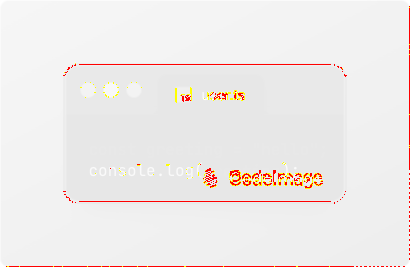
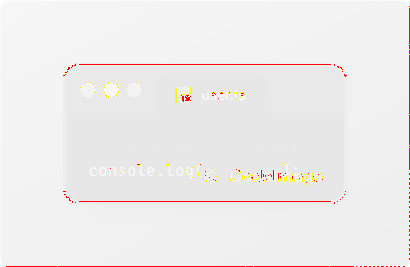
test(app): fix the Chrome reference of the Animate preview parity
The reference page had no doctype, so Chrome drew it in quirks mode and
moved the watermark 4.5 px, and it emulated the device scale. With a
doctype and a real device scale, target 1x/2x and free 2x pass 39/39;
free 1x is 35/39, four mid-transition frames where Takumi rounds the
antialiased edges of a fractionally transformed box, also on main.
The verification report records the cause and the post-merge results.

Changed region(s): [[0.5561, 0.6292, 0.7902, 0.7191], [0.4976, 0.3296, 0.6146, 0.3895], [0.4976, 0.6292, 0.5268, 0.7191]]

diff --git a/scripts/parity/animation-preview-live.ts b/scripts/parity/animation-preview-live.ts
@@ -47,10 +47,13 @@ export async function runPreviewParity(options: {
   await mkdir(options.out, {recursive: true});
   const browser = await chromium.launch({channel: 'chrome'});
   const app = await browser.newPage({viewport: {width: 1440, height: 900}});
-  const reference = await browser.newPage({
-    viewport: {width: 1440, height: 900},
-    deviceScaleFactor: scale,
+  // A real device scale: an emulated one moves edges and glyphs by
+  // sub-pixels that Takumi does not.
+  const referenceBrowser = await chromium.launch({
+    channel: 'chrome',
+    args: [`--force-device-scale-factor=${scale}`, '--window-size=2000,1200'],
   });
+  const reference = await referenceBrowser.newPage({viewport: null});
   let comparisons = 0;
   const results: {mode: string; ms: number; diff: number}[] = [];
   try {
@@ -164,12 +167,10 @@ export async function runPreviewParity(options: {
           };
         });
         const css = `${snapshot.css}\nhtml,body{margin:0!important;background:transparent!important} [data-animation-stage]{position:relative!important;zoom:1!important}`;
-        await reference.setViewportSize({
-          width: snapshot.width,
-          height: snapshot.height,
-        });
+        // Standards mode, as the app: in quirks mode a line of only the
+        // watermark's inline SVG has no strut, which moves the watermark.
         await reference.setContent(
-          `<style>${faces}${css}</style>${snapshot.html}`,
+          `<!doctype html><style>${faces}${css}</style>${snapshot.html}`,
         );
         await reference.evaluate(async time => {
           await document.fonts.ready;
@@ -231,5 +232,6 @@ export async function runPreviewParity(options: {
     );
   } finally {
     await browser.close();
+    await referenceBrowser.close();
   }
 }

diff --git a/docs/plans/animate-new-ui-verification.md b/docs/plans/animate-new-ui-verification.md
@@ -19,6 +19,38 @@ All commits carry the requested co-author trailer. Each implementation slice
 was pushed to `feat/animate-new-ui`. No other branch was pushed, no PR was
 merged, and the PR body was left unchanged.
 
+## Review after merging main
+
+`origin/main` at `532da1e81e38b187704d9885c256bc915e635960` (the unified
+editor #711/#737 and Takumi #731) was merged in as `291e6d5f`. Four files
+conflicted:
+
+| File                                        | Resolution                                                                                   |
+| ------------------------------------------- | -------------------------------------------------------------------------------------------- |
+| `apps/api/.../project.repository.ts`        | Both import lists: `parseAnimationSettings` and main's reordered `parseTabMarks`             |
+| `apps/codeimage/.../Frame/PreviewFrame.tsx` | This branch's `FrameView`/`PreviewFrame` split; main's copy-hotkey renderer moves into `PreviewFrame` |
+| `apps/codeimage/src/i18n/index.ts`          | `animationLocale` and main's `whatsNewLocale` in every locale                                |
+| `.../editor-controls/stage.tsx`             | `Stage` keeps `AnimatePanel` and `AnimateToggle` and gains main's `compact`                 |
+
+After the merge and the review fixes:
+
+| Check                                   | Result                                                                    |
+| --------------------------------------- | ------------------------------------------------------------------------- |
+| App Vitest                              | 275 passed, 42 files                                                      |
+| API unit Vitest (CI env)                | 77 passed, 15 files                                                       |
+| API update/GET against Docker Postgres  | 5 passed                                                                  |
+| `pnpm libs:build`, API `build:ts`       | Passed                                                                    |
+| `pnpm typecheck`, `pnpm lint`           | Passed; lint has warnings only, none in Animate files                     |
+| Chrome UI matrix                        | 66 passed: 11 lanes × 3 layouts × 2 sizes                                 |
+| Localization browser matrix             | 24 passed: en/it/de/es × 3 layouts × 2 sizes                              |
+| Locale keys                             | 514 keys and placeholders match in it, en, de, es                         |
+| Default timelines vs `main`             | 20 byte-identical                                                         |
+| Static export vs `main`                 | DOM and Chrome pixels identical, 5 window styles × all tabs/active tab    |
+| Chrome/Takumi preview parity            | Target 1× and 2×, free 2×: 39/39. Free 1×: 35/39, see [below](#free-size-parity) |
+
+Two lanes needed main's What's new nudge (#725) hidden: it settles over Dock's
+phone bar and took the click meant for the Animate toggle.
+
 ## Results
 
 | Check                                        | Result                                                      |
@@ -32,7 +64,7 @@ merged, and the PR body was left unchanged.
 | Chrome UI matrix                             | 66 passed: 11 lanes × 3 layouts × 2 sizes                   |
 | Localization browser matrix                  | 24 passed: en/it/de/es × 3 layouts × 2 sizes                |
 | Locale keys/placeholders and hard-coded text | 481 matching keys; negative controls passed                 |
-| Target-size Chrome/Takumi comparison         | 39/39 within 0.5%; worst 0.175%                             |
+| Target-size Chrome/Takumi comparison         | 39/39 within 0.5%; worst 0.175% (first harness)            |
 | oxfmt                                        | Passed on changed files                                     |
 | oxlint                                       | No errors; existing layout reactivity warnings remain       |
 
@@ -92,20 +124,67 @@ its source, SSR entry and branch remain untouched:
 fnm exec --using=v24.14.0 node scripts/parity/animation-preview.ts --preview --url http://localhost:4377/ --render-root /path/to/packages/render
 ```
 
-## Remaining rendering follow-up
+## Free-size parity
 
-The additional small free-size comparison is **not green** at the strict 0.5%
-threshold: 2/39 frames pass at 1×, with a worst difference of 1.579%. This is
-separate from the passing target-size fixture. The report retains this result
-rather than relaxing the threshold. Investigate the free-size Chrome/Takumi
-rendering gap before claiming parity for every export size.
+The first run of this report found the free-size comparison at 1× **not
+green**: 2/39 frames within 0.5%, worst 1.579%, while target size passed
+39/39. The review after the merge of `main` (`532da1e8`) traced it. It is not
+a regression of this branch: two harness artefacts plus one Takumi limit that
+predates it.
 
-Reproduce with the same command plus `--free-size --scale 1`. Results are in
-[free-size-parity.json](media/animate/free-size-parity.json); a failing sample
-has [Chrome](media/animate/free-size-chrome.png),
+| Harness                         | Free 1×          | Free 2×          | Target 1×        | Target 2×        |
+| ------------------------------- | ---------------- | ---------------- | ---------------- | ---------------- |
+| Before the fix                  | 12/39, 1.514%    | 0/39, 1.139%     | 39/39, 0.050%    | 39/39, 0.148%    |
+| Before the fix, no step timings | 10/39, 0.999%    | 0/39, 1.246%     | 39/39, 0.046%    | 39/39, 0.158%    |
+| Doctype only                    | 35/39, 0.943%    | 14/39, 0.802%    | 39/39, 0.008%    | 39/39, 0.122%    |
+| Doctype and real device scale   | **35/39, 1.146%** | **39/39, 0.071%** | **39/39, 0.008%** | **39/39, 0.003%** |
+| Same, no step timings           | 39/39, 0.472%    | 39/39, 0.337%    | 39/39, 0.008%    | 39/39, 0.002%    |
+
+1. **Quirks mode (harness).** The reference page was written with
+   `setContent` and no doctype, so Chrome drew it in quirks mode. There a line
+   that holds only an inline `<svg>` gets no strut: the watermark box
+   (`terminal.css.ts` `watermark`, absolute at `bottom: -6px`, holding a
+   125 px wide SVG) is 24.297 px tall instead of 28.797 px, and the logo sits
+   4.5 px lower than in the app. Takumi lays it out as standards mode does.
+   That is 540 to 620 changed pixels on every hold at 1×: 0.5 to 0.6% of a
+   410×267 free-size frame, but 0.04% of a 1600×900 target, which is the only
+   reason target size passed.
+2. **Emulated device scale (harness).** The 2× reference used Playwright's
+   `deviceScaleFactor`, which moves edges and glyphs by sub-pixels. A Chrome
+   launched with `--force-device-scale-factor` and `viewport: null` takes
+   free 2× from 14/39 to 39/39 (holds about 0.001%).
+3. **Fractional transform edges (Takumi, pre-existing).** The four frames
+   still over the bar at free 1× are mid-transition (2109 ms in every header
+   mode, 2217 ms in Current tab). In free size the frame box animates its size
+   and position: at 2109 ms it is `translate(0.479px, 0.585px)` and
+   409.016×265.578 px. Chrome antialiases those edges (edge alphas 106, 132,
+   123, 149); Takumi rounds them (127, 128, 0, 0). A lone `<div>` with the same
+   transform reproduces it with no app code. One full edge row is 0.37% of a
+   410×267 image, so a few edges pass 0.5%; at 2×, or at a target size where
+   the frame does not resize, the same edges stay under it. The no-step-timing
+   row passes only because its samples fall elsewhere in the motion: sampled
+   every 25 ms it scores 48/58, worst 0.988% at 2150 ms, the same edge pattern.
+
+Why it is not this branch:
+
+- The static export frame, snapshotted the same way on `main` and on this
+  branch, gives the same diffs (quirks 1×: 492, 589, 499 px; standards 1×: 54,
+  57, 42 px). The export DOM and its Chrome pixels are identical to `main` for
+  macOS, Windows, Card, Editor and Shell, with all tabs and with only the
+  active one.
+- `scripts/parity/animation-defaults.ts --base 532da1e8` passes: the 20
+  default timelines are byte-identical to `main`.
+- `parseInt` of the scene size truncates nothing: `planTimeline` rounds the
+  scene to whole pixels.
+
+`scripts/parity/animation-preview-live.ts` now writes a doctype and renders
+the reference in a Chrome with a real device scale. Free size at 1× stays a
+known Takumi limit, not a gate. Reproduce with the preview command above plus
+`--free-size --scale 1` (or `--scale 2`, with or without `--free-size`). Results:
+[free-size-parity.json](media/animate/free-size-parity.json), and the worst
+frame's [Chrome](media/animate/free-size-chrome.png),
 [Takumi](media/animate/free-size-takumi.png) and
-[diff](media/animate/free-size-diff.png) images. Passing target results are in
-[target-parity.json](media/animate/target-parity.json).
+[diff](media/animate/free-size-diff.png) images.
 
 The CLI's independent SSR export integration remains owned by #726, as the
 plan specifies. This verification does not claim that its unre-based renderer

diff --git a/docs/plans/2026-animate-new-ui.md b/docs/plans/2026-animate-new-ui.md
@@ -354,4 +354,4 @@ A4 adds an "Export animation…" entry to the Export menu (`prototypes/editor-co
 - Give easing's segmented presets an explicit native Escape callback while preserving existing segmented controls' handling. Title-field Escape reaches the island.
 - Keep compact Dock targets at 40 px by showing the export action's icon. Allow strip grid children to shrink on phones.
 - Keep valid steps when their hold is missing/invalid, applying the documented field-wise default.
-- The branch lacks the CLI renderer/SSR package. A live-markup parity lane reads an existing renderer and fonts without changing its checkout. Target-size parity passes; the extra small free-size comparison remains an explicit follow-up in the verification note.
+- The branch lacks the CLI renderer/SSR package. A live-markup parity lane reads an existing renderer and fonts without changing its checkout. Target-size parity passes. The free-size gap was two harness artefacts (quirks mode, emulated device scale) and a pre-existing Takumi edge limit at 1×; see [Free-size parity](animate-new-ui-verification.md#free-size-parity).
